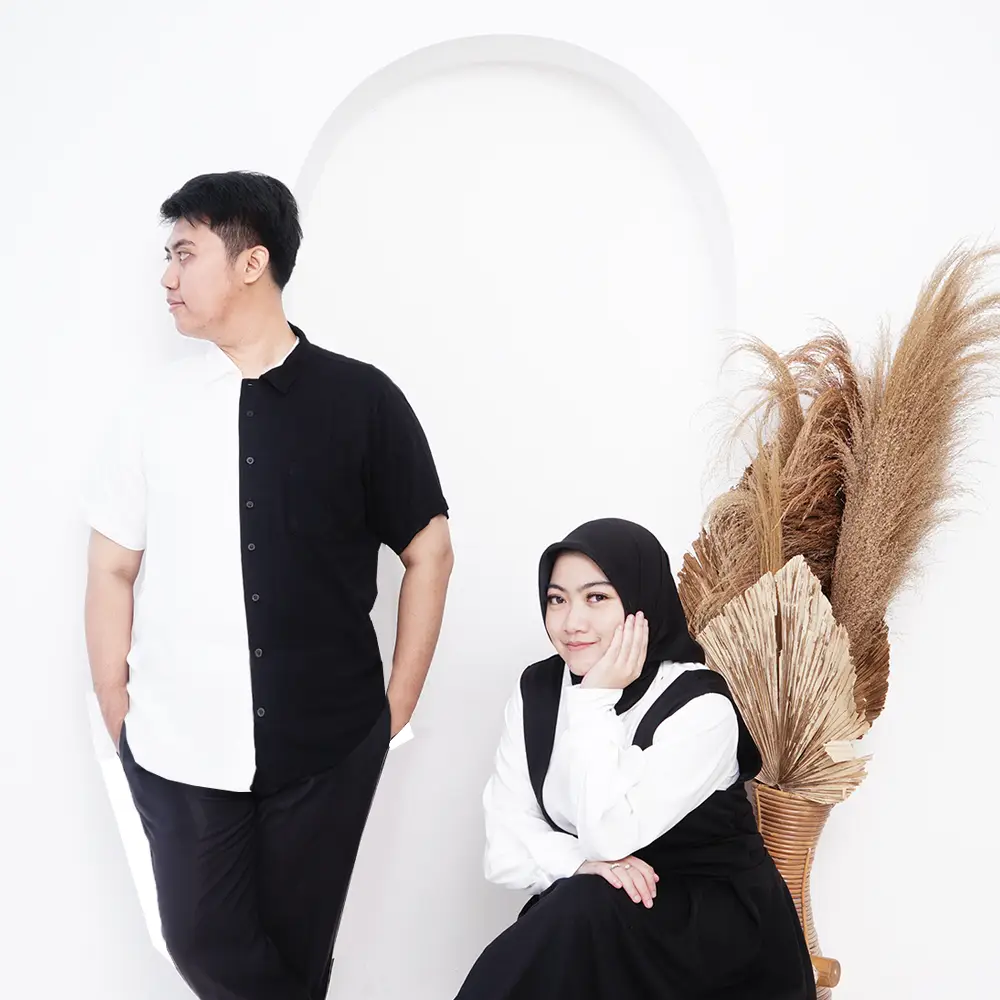
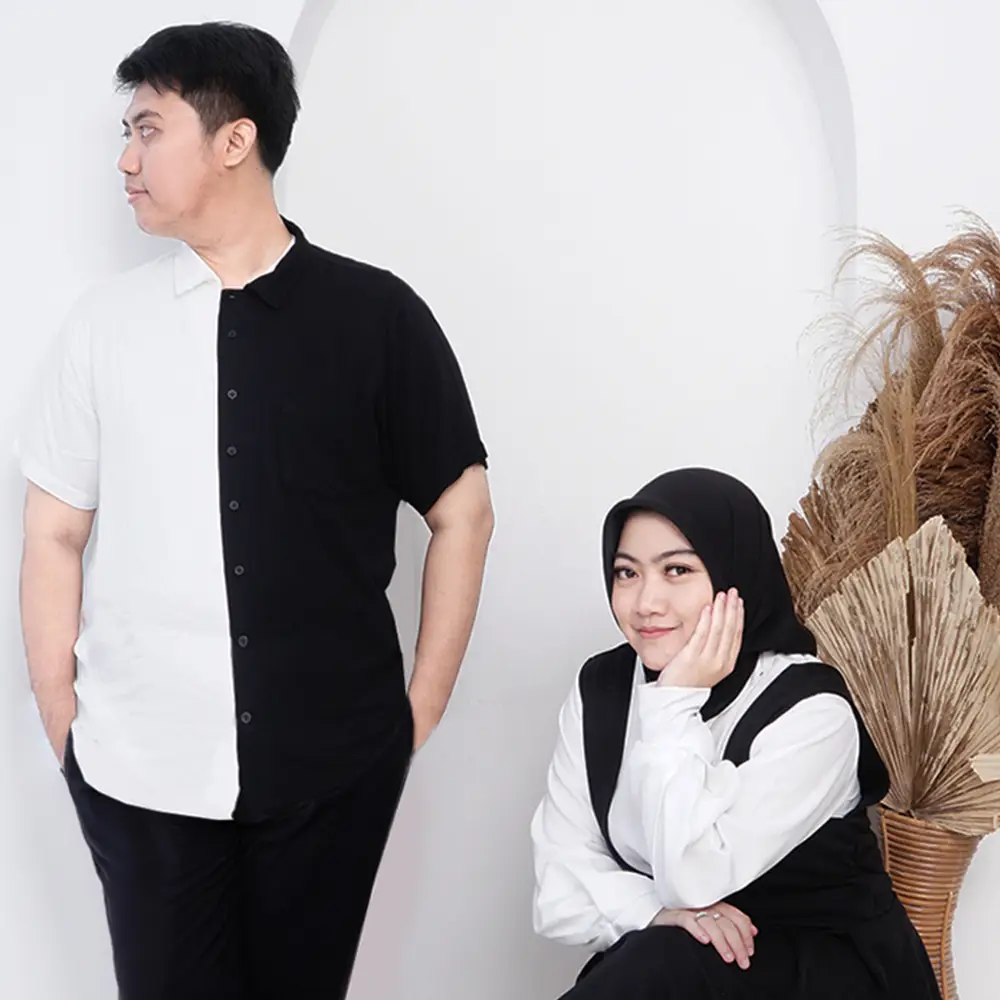
update

diff --git a/index.html b/index.html
@@ -193,7 +193,7 @@
                         style="font-size: 3rem; font-family: 'SweetRomance'; color: #5f3d22;">Galeri</h1>
 
                     <div id="carouselExampleIndicators" data-aos="fade-up" data-aos-duration="1500"
-                        class="carousel slide" data-bs-ride="carousel">
+                        class="carousel slide img-galery" data-bs-ride="carousel" style="margin-left: auto; margin-right: auto;">
                         <div class="carousel-indicators">
                             <button type="button" data-bs-target="#carouselExampleIndicators" data-bs-slide-to="0"
                                 class="active" aria-current="true" aria-label="Slide 1"></button>
@@ -205,13 +205,13 @@
 
                         <div class="carousel-inner rounded-4">
                             <div class="carousel-item active">
-                                <img src="assets/images/galeri/1.webp" class="d-block w-100">
+                                <img src="assets/images/galeri/1.webp" class="d-block img-galery">
                             </div>
                             <div class="carousel-item">
-                                <img src="assets/images/galeri/2.webp" class="d-block w-100">
+                                <img src="assets/images/galeri/2.webp" class="d-block img-galery">
                             </div>
                             <div class="carousel-item">
-                                <img src="assets/images/galeri/3.webp" class="d-block w-100">
+                                <img src="assets/images/galeri/3.webp" class="d-block img-galery">
                             </div>
                         </div>
 

diff --git a/css/custom.min.css b/css/custom.min.css
@@ -11,7 +11,9 @@
 body {
     font-family: 'sunflower';
     color: 585252;
-    background-image: url('../assets/images/bg.webp');
+    background-image: url('../assets/images/bg-mobile.webp');
+    background-repeat: no-repeat;
+    background-size: cover;
 }
 
 #tanggal {
@@ -49,11 +51,11 @@ body {
     letter-spacing: 1px;
 }
 
-@media only screen and (max-width: 767px) {
-    body {
-        background-image: url('../assets/images/bg-mobile.webp');
-    }
+.img-galery {
+    width: 500px;
+}
 
+@media only screen and (max-width: 767px) {
     .modal-cover {
         background-image: url('../assets/images/cover.webp');
         background-size: cover;
@@ -97,6 +99,10 @@ body {
         margin-left: auto;
         margin-right: auto;
         display: block;
+    }
+
+    .img-galery {
+        width: 100%;
     }
 
     .text-mempelai {
